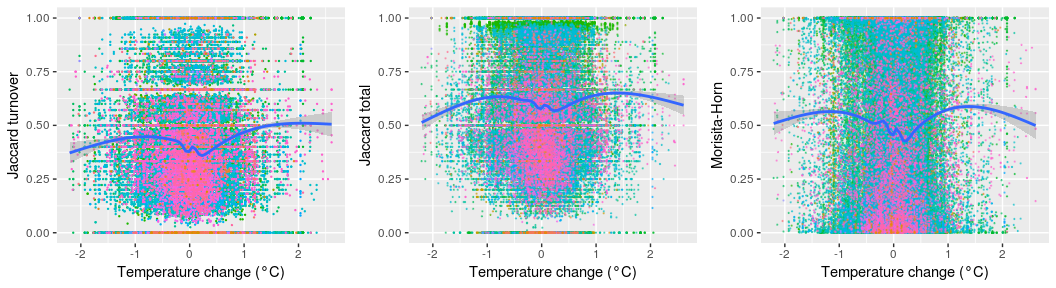
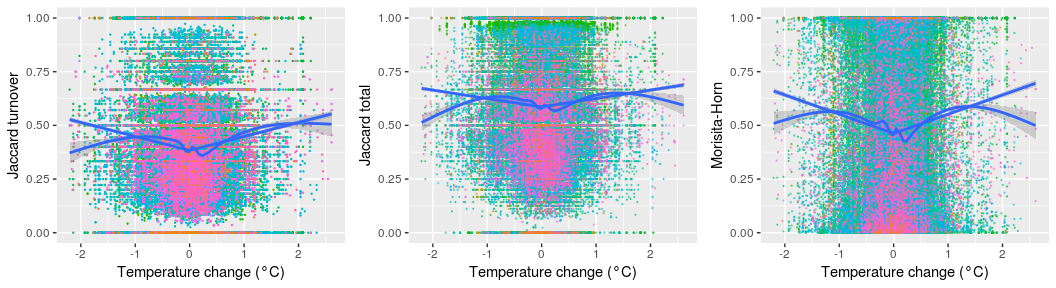
More plots of dissimilarity vs tempchange by duration, realm, mass, endo/ecto

diff --git a/code/turnover_vs_temperature_plots.md b/code/turnover_vs_temperature_plots.md
@@ -192,96 +192,9 @@ trendsum4
 
 ## Plots of turnover rates binned by warming rates
 
-``` r
-p1 <- ggplot(trends[!is.na(tempchangetext1), ], aes(tempchangetext1, Horn)) +
-  geom_violin(draw_quantiles = c(0.25, 0.5, 0.75), fill = 'grey') +
-  labs(x = '', y = 'Horn dissimilarity', tag = 'A', title = 'Rate of temperature change') +
-  theme(panel.grid.major = element_blank(), panel.grid.minor = element_blank(),
-        panel.background = element_blank(), axis.line = element_line(colour = "black"),
-        legend.key=element_blank(),
-        axis.text=element_text(size=8),
-        axis.title=element_text(size=10)) +
-  geom_abline(intercept = 0, slope = 0)
+![](turnover_vs_temperature_plots_files/figure-gfm/turnover%20vs.%20temperature%20violin%20plot-1.png)<!-- -->![](turnover_vs_temperature_plots_files/figure-gfm/turnover%20vs.%20temperature%20violin%20plot-2.png)<!-- -->![](turnover_vs_temperature_plots_files/figure-gfm/turnover%20vs.%20temperature%20violin%20plot-3.png)<!-- -->![](turnover_vs_temperature_plots_files/figure-gfm/turnover%20vs.%20temperature%20violin%20plot-4.png)<!-- -->![](turnover_vs_temperature_plots_files/figure-gfm/turnover%20vs.%20temperature%20violin%20plot-5.png)<!-- -->
 
-p2 <- ggplot(trends[!is.na(tempchangetext2), ], aes(tempchangetext2, Horn)) +
-  geom_violin(draw_quantiles = c(0.25, 0.5, 0.75), fill = 'grey') +
-  labs(x = '', y = 'Horn dissimilarity', tag = 'B', title = 'Rate of temperature change') +
-  theme(panel.grid.major = element_blank(), panel.grid.minor = element_blank(),
-        panel.background = element_blank(), axis.line = element_line(colour = "black"),
-        legend.key=element_blank(),
-        axis.text=element_text(size=8),
-        axis.title=element_text(size=10)) +
-  geom_abline(intercept = 0, slope = 0)
-
-p3 <- ggplot(trendsum4[type %in% c('Jtu', 'Jbeta', 'Horn') & is.na(duration)], 
-             aes(text, ave, group = type, color = type)) +
-  geom_point(position = position_dodge(width = 0.25), size = 0.5) +
-  geom_errorbar(aes(ymin=ave-se, ymax=ave+se), width= 0.1, position = position_dodge(width = 0.25)) +
-  labs(x = '', y = 'Dissimilarity', title = 'All time intervals') +
-  geom_abline(intercept = 0, slope = 0, linetype = 'dashed') +
-  theme(panel.grid.major = element_blank(), panel.grid.minor = element_blank(),
-        panel.background = element_blank(), axis.line = element_line(colour = "black"),
-        legend.key=element_blank(),
-        axis.text=element_text(size=8),
-        axis.title=element_text(size=10),
-        axis.text.x = element_text(angle = 45, vjust = 0.7))
-
-p4 <- ggplot(trendsum4[type %in% c('Jtu', 'Jbeta', 'Horn') & duration==1, ], 
-             aes(text, ave, group = type, color = type)) +
-  geom_point(position = position_dodge(width = 0.25), size = 0.5) +
-  geom_errorbar(aes(ymin=ave-se, ymax=ave+se), width= 0.1, position = position_dodge(width = 0.25)) +
-  labs(x = '', y = 'Dissimilarity', title = '1-year interval') +
-  geom_abline(intercept = 0, slope = 0, linetype = 'dashed') +
-  theme(panel.grid.major = element_blank(), panel.grid.minor = element_blank(),
-        panel.background = element_blank(), axis.line = element_line(colour = "black"),
-        legend.key=element_blank(),
-        axis.text=element_text(size=8),
-        axis.title=element_text(size=10),
-        axis.text.x = element_text(angle = 45, vjust = 0.7))
-
-p5 <- ggplot(trendsum4[type %in% c('Jtu', 'Jbeta', 'Horn') & duration==10, ], 
-             aes(text, ave, group = type, color = type)) +
-  geom_point(position = position_dodge(width = 0.25), size = 0.5) +
-  geom_errorbar(aes(ymin=ave-se, ymax=ave+se), width= 0.1, position = position_dodge(width = 0.25)) +
-  labs(x = '', y = 'Dissimilarity', title = '10-year interval') +
-  geom_abline(intercept = 0, slope = 0, linetype = 'dashed') +
-  theme(panel.grid.major = element_blank(), panel.grid.minor = element_blank(),
-        panel.background = element_blank(), axis.line = element_line(colour = "black"),
-        legend.key=element_blank(),
-        axis.text=element_text(size=8),
-        axis.title=element_text(size=10),
-        axis.text.x = element_text(angle = 45, vjust = 0.7))
-
-p1
-```
-
-![](turnover_vs_temperature_plots_files/figure-gfm/turnover%20vs.%20temperature%20violin%20plot-1.png)<!-- -->
-
-``` r
-p2
-```
-
-![](turnover_vs_temperature_plots_files/figure-gfm/turnover%20vs.%20temperature%20violin%20plot-2.png)<!-- -->
-
-``` r
-p3
-```
-
-![](turnover_vs_temperature_plots_files/figure-gfm/turnover%20vs.%20temperature%20violin%20plot-3.png)<!-- -->
-
-``` r
-p4
-```
-
-![](turnover_vs_temperature_plots_files/figure-gfm/turnover%20vs.%20temperature%20violin%20plot-4.png)<!-- -->
-
-``` r
-p5
-```
-
-![](turnover_vs_temperature_plots_files/figure-gfm/turnover%20vs.%20temperature%20violin%20plot-5.png)<!-- -->
-
-# Plot turnover binned by warming rates vs duration
+# Plot dissimilarity binned by tempchange vs duration
 
 ## Jaccard turnover dissimilarity
 
@@ -394,3 +307,134 @@ grid.arrange(p1, p2, ncol = 2)
 ```
 
 ![](turnover_vs_temperature_plots_files/figure-gfm/diss%20vs.%20temperature%20trend%20vs.%20duration%20by%20endofrac-1.png)<!-- -->
+
+# Plot dissimilarity binned by duration vs tempchange
+
+## Jaccard turnover dissimilarity
+
+``` r
+ggplot(trends[duration == 1, ], aes(x=abs(tempchange), y=Jtu)) +
+  geom_smooth(aes(color = '1')) +
+  geom_smooth(data = trends[duration ==5,], aes(color = '5')) +
+  geom_smooth(data = trends[duration==10,], aes(color = '10')) +
+  geom_smooth(data = trends[duration==15,], aes(color = '15')) +
+  geom_smooth(data = trends[duration>15,], aes(color = '>15')) +
+  labs(y = 'Jaccard dissimilarity', color = 'Duration')
+```
+
+![](turnover_vs_temperature_plots_files/figure-gfm/diss%20vs.%20tempchange%20by%20duration-1.png)<!-- -->
+
+## By realm
+
+``` r
+terr <- trends[REALM == 'Terrestrial', ]
+p1 <- ggplot(terr[duration==1, ], aes(x=abs(tempchange), y=Jtu)) +
+  geom_smooth(aes(color = '1')) +
+  geom_smooth(data = terr[duration==5,], aes(color = '5')) +
+  geom_smooth(data = terr[duration==10,], aes(color = '10')) +
+  geom_smooth(data = terr[duration==15,], aes(color = '15')) +
+  geom_smooth(data = terr[duration>15,], aes(color = '>15')) +
+  labs(y = 'Jaccard dissimilarity', color = 'Duration', title = 'Terrestrial')
+
+mar <- trends[REALM == 'Marine', ]
+p2 <- ggplot(mar[duration==1, ], aes(x=abs(tempchange), y=Jtu)) +
+  geom_smooth(aes(color = '1')) +
+  geom_smooth(data = mar[duration==5,], aes(color = '5')) +
+  geom_smooth(data = mar[duration==10,], aes(color = '10')) +
+  geom_smooth(data = mar[duration==15,], aes(color = '15')) +
+  geom_smooth(data = mar[duration>15,], aes(color = '>15')) +
+  labs(y = 'Jaccard dissimilarity', color = 'Duration', title = 'Marine')
+
+fre <- trends[REALM == 'Freshwater', ]
+p3 <- ggplot(fre[duration==1, ], aes(x=abs(tempchange), y=Jtu)) +
+  geom_smooth(aes(color = '1')) +
+  geom_smooth(data = fre[duration==5,], aes(color = '5')) +
+  geom_smooth(data = fre[duration==10,], aes(color = '10')) +
+  geom_smooth(data = fre[duration==15,], aes(color = '15')) +
+  geom_smooth(data = fre[duration>15,], aes(color = '>15')) +
+  labs(y = 'Jaccard dissimilarity', color = 'Duration', title = 'Freshwater')
+
+grid.arrange(p1, p2, p3, ncol = 3)
+```
+
+![](turnover_vs_temperature_plots_files/figure-gfm/diss%20vs.%20tempchange%20by%20duration%20by%20realm-1.png)<!-- -->
+
+## By body size
+
+``` r
+small <- trends[mass_mean_weight < 1, ]
+p1 <- ggplot(small[duration==1, ], aes(x=abs(tempchange), y=Jtu)) +
+  geom_smooth(aes(color = '1')) +
+  geom_smooth(data = small[duration==5,], aes(color = '5')) +
+  geom_smooth(data = small[duration==10,], aes(color = '10')) +
+  geom_smooth(data = small[duration==15,], aes(color = '15')) +
+  geom_smooth(data = small[duration>15,], aes(color = '>15')) +
+  labs(y = 'Jaccard dissimilarity', color = 'Duration', title = '<1 g')
+
+med <- trends[mass_mean_weight < 10000 & mass_mean_weight >= 1, ]
+p2 <- ggplot(med[duration==1, ], aes(x=abs(tempchange), y=Jtu)) +
+  geom_smooth(aes(color = '1')) +
+  geom_smooth(data = med[duration==5,], aes(color = '5')) +
+  geom_smooth(data = med[duration==10,], aes(color = '10')) +
+  geom_smooth(data = med[duration==15,], aes(color = '15')) +
+  geom_smooth(data = med[duration>15,], aes(color = '>15')) +
+  labs(y = 'Jaccard dissimilarity', color = 'Duration', title = '1g to 10kg')
+
+lg <- trends[mass_mean_weight >= 10000, ]
+p3 <- ggplot(lg[duration==1, ], aes(x=abs(tempchange), y=Jtu)) +
+  geom_smooth(aes(color = '1')) +
+  geom_smooth(data = lg[duration==5,], aes(color = '5')) +
+  geom_smooth(data = lg[duration==10,], aes(color = '10')) +
+  geom_smooth(data = lg[duration==15,], aes(color = '15')) +
+  labs(y = 'Jaccard dissimilarity', color = 'Duration', title = '>10kg')
+
+grid.arrange(p1, p2, p3, ncol = 3)
+```
+
+![](turnover_vs_temperature_plots_files/figure-gfm/diss%20vs.%20temperature%20trend%20by%20duration%20by%20body%20size-1.png)<!-- -->
+
+## By endo/ectotherm
+
+``` r
+ecto <- trends[endofrac <= 0.5, ]
+p1 <- ggplot(ecto[duration==1, ], aes(x=abs(tempchange), y=Jtu)) +
+  geom_smooth(aes(color = '1')) +
+  geom_smooth(data = ecto[duration==5,], aes(color = '5')) +
+  geom_smooth(data = ecto[duration==10,], aes(color = '10')) +
+  geom_smooth(data = ecto[duration==15,], aes(color = '15')) +
+  geom_smooth(data = ecto[duration>15,], aes(color = '>15')) +
+  labs(y = 'Jaccard dissimilarity', color = 'Duration', title = 'Mostly ectotherms')
+
+endo <- trends[endofrac > 0.5, ]
+p2 <- ggplot(endo[duration==1, ], aes(x=abs(tempchange), y=Jtu)) +
+  geom_smooth(aes(color = '1')) +
+  geom_smooth(data = endo[duration==5,], aes(color = '5')) +
+  geom_smooth(data = endo[duration==10,], aes(color = '10')) +
+  geom_smooth(data = endo[duration==15,], aes(color = '15')) +
+  geom_smooth(data = ecto[duration>15,], aes(color = '>15')) +
+  labs(y = 'Jaccard dissimilarity', color = 'Duration', title = 'Mostly endotherms')
+
+grid.arrange(p1, p2, ncol = 2)
+```
+
+![](turnover_vs_temperature_plots_files/figure-gfm/diss%20vs.%20temperature%20trend%20by%20duration%20by%20endofrac-1.png)<!-- -->
+\#\# By realm, body size AND endo/ecto
+
+``` r
+trends[duration == 1, dur_bin := '[1] yr']
+trends[duration > 1 & duration <= 5, dur_bin := '(1-5] yr']
+trends[duration > 5 & duration <= 10, dur_bin := '(5-10] yr']
+trends[duration > 10 & duration <= 20, dur_bin := '(10-20] yr']
+trends[duration > 20, dur_bin := '>20 yr']
+trends[mass_mean_weight <= 1, mass_bin := '<=1 g']
+trends[mass_mean_weight > 1 & mass_mean_weight <= 10000, mass_bin := '(1 g-10 kg]']
+trends[mass_mean_weight > 10000, mass_bin := '>10 kg']
+trends[endofrac > 0.5, endoTF := 'endo']
+trends[endofrac <= 0.5, endoTF := 'ecto']
+ggplot(trends[!is.na(mass_bin), ], aes(x=abs(tempchange), y=Jtu, color = dur_bin, group = dur_bin)) +
+  geom_smooth() +
+  facet_grid(mass_bin + endoTF~REALM, scales = 'free') +
+  labs(y = 'Jaccard dissimilarity', title = '')
+```
+
+![](turnover_vs_temperature_plots_files/figure-gfm/diss%20vs.%20tempchange%20by%20duration%20mass%20endofrac-1.png)<!-- -->
